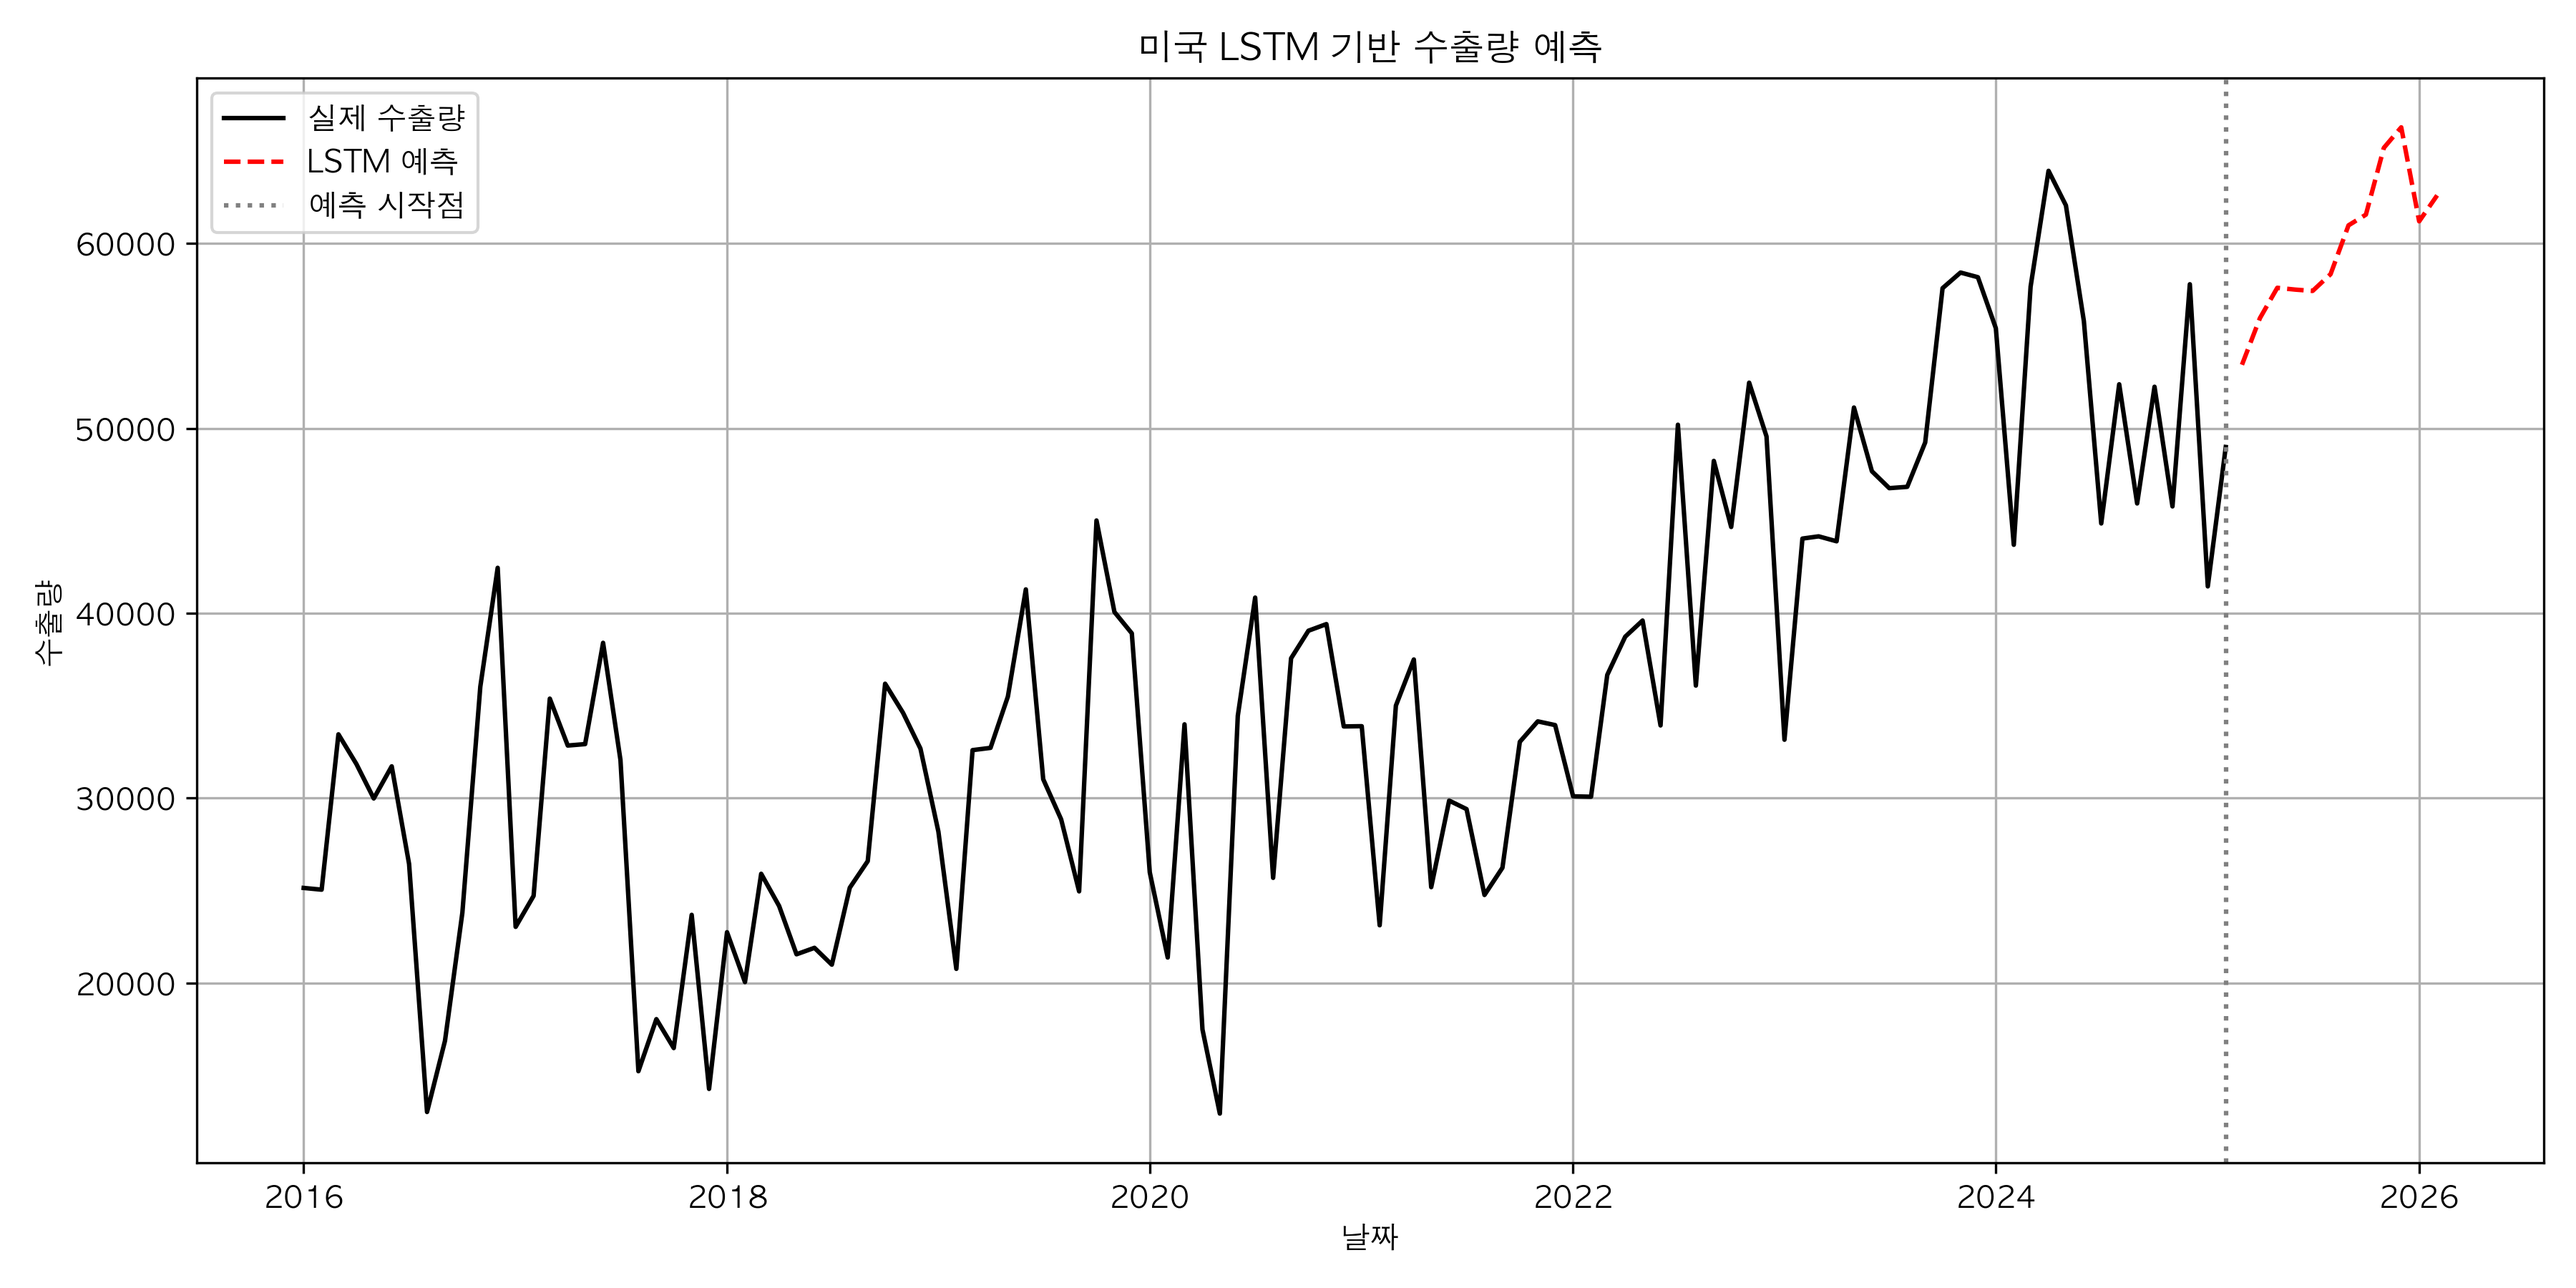
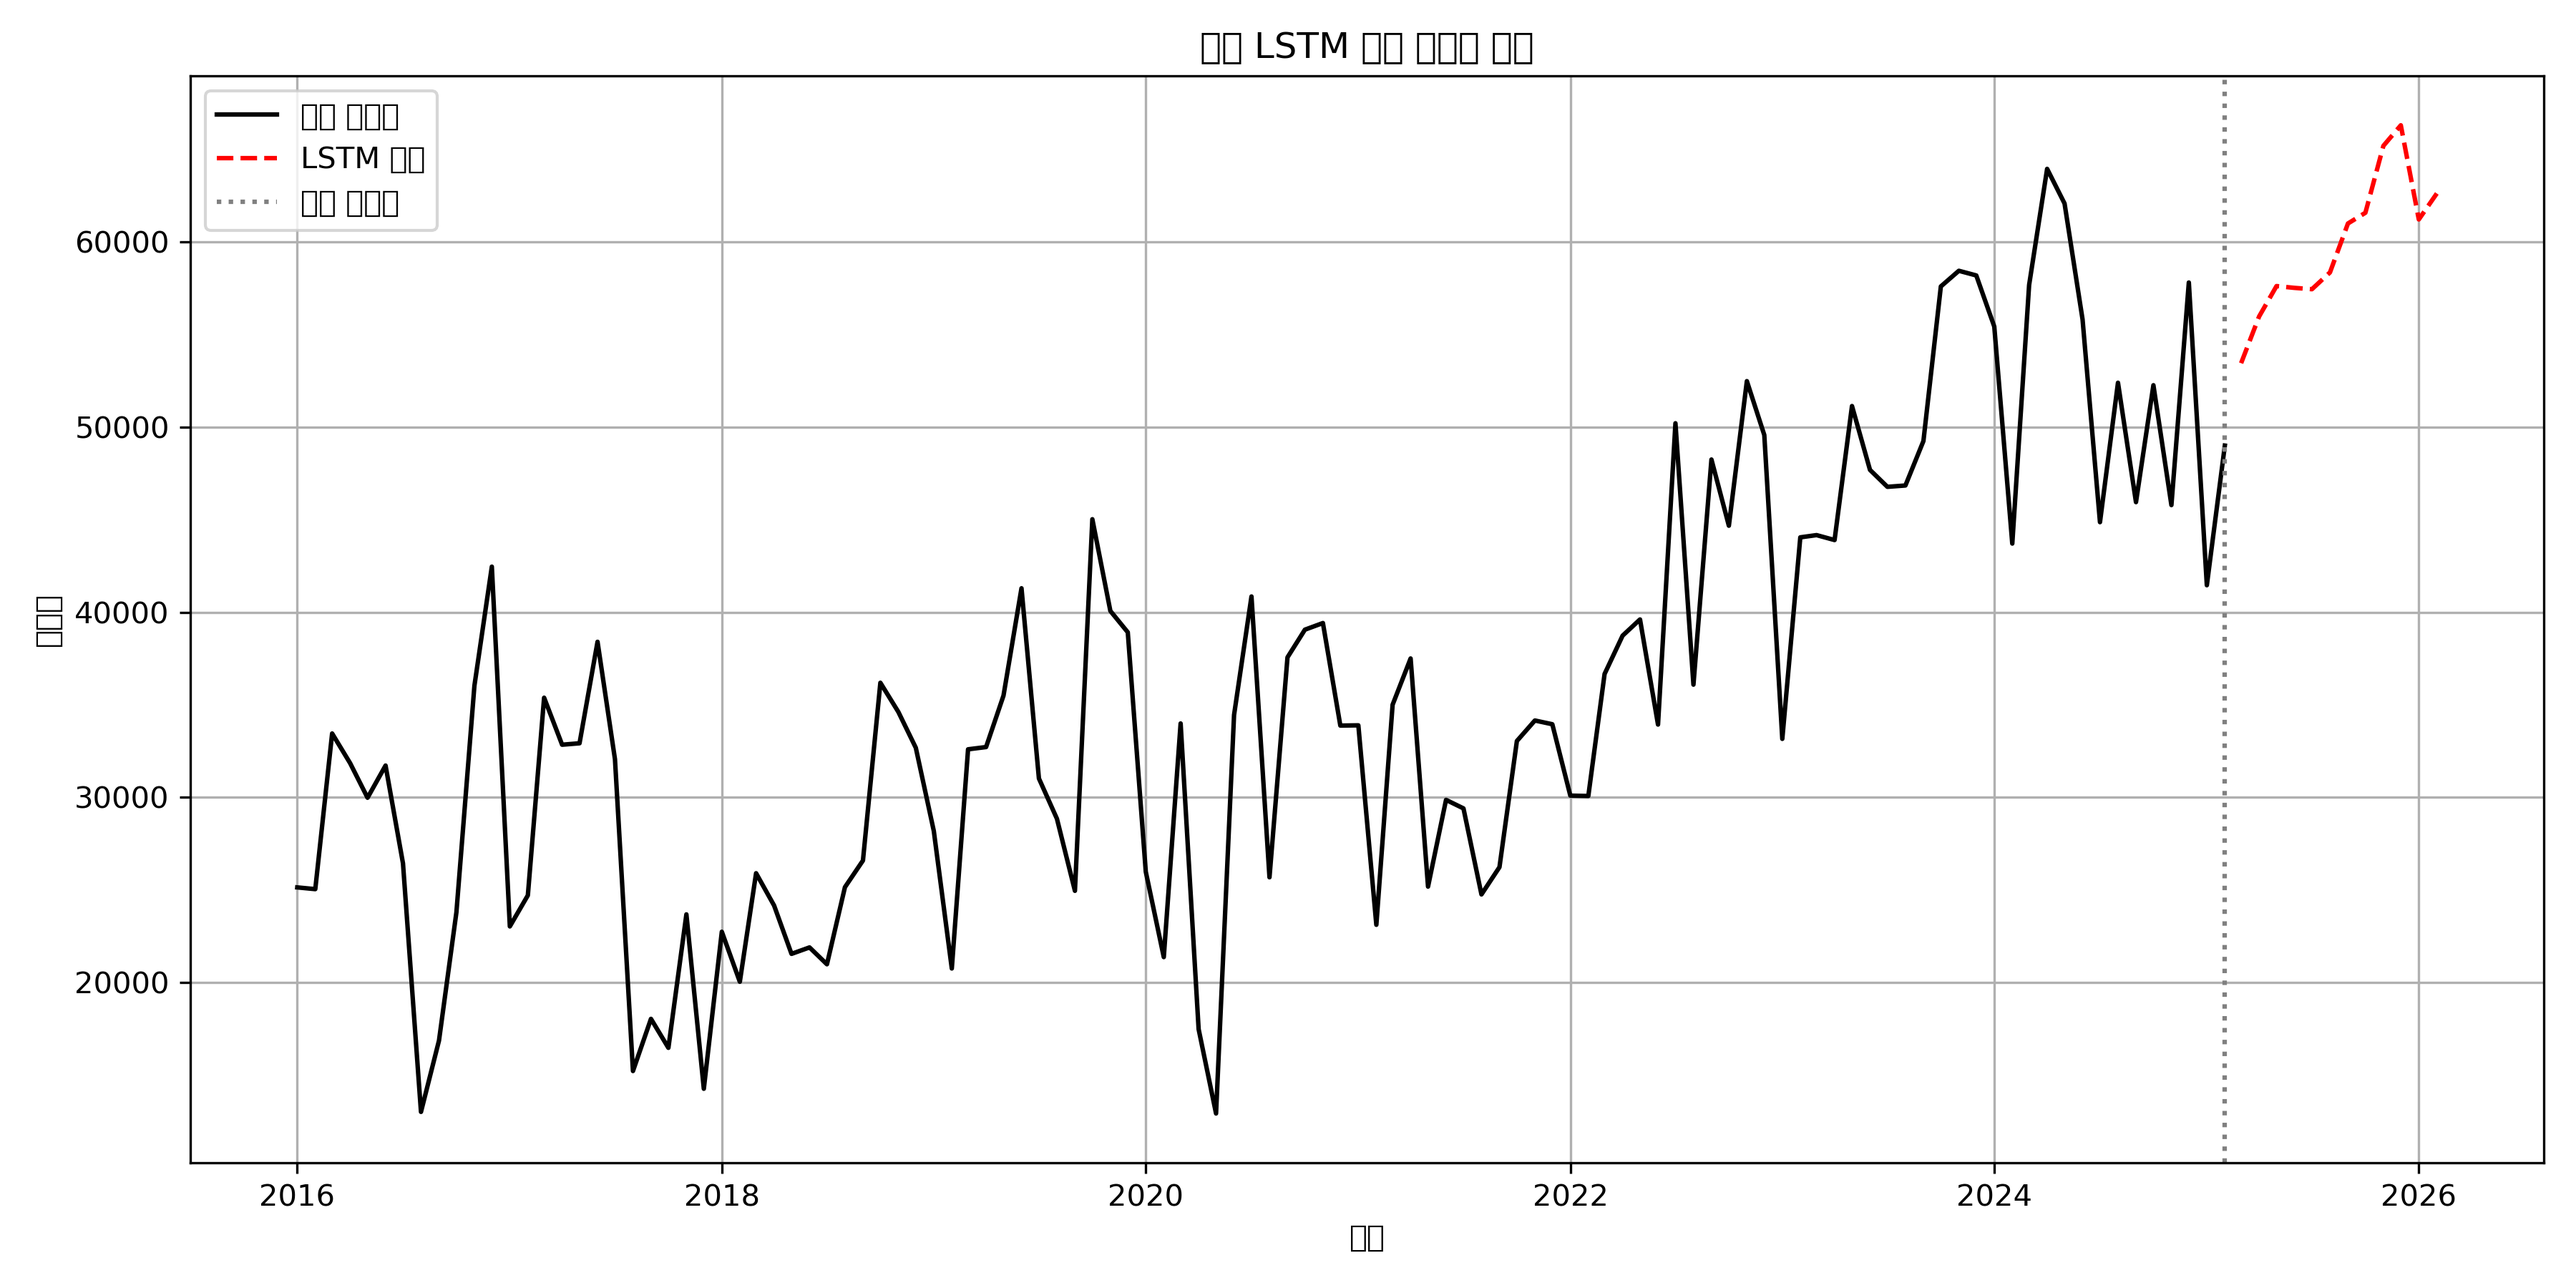
.

diff --git a/modules/prediction.py b/modules/prediction.py
@@ -18,6 +18,7 @@ import joblib
 import matplotlib.pyplot as plt
 import time
 
+
 # 한글 폰트 조정
 plt.rcParams["axes.unicode_minus"] = False
 
@@ -143,9 +144,52 @@ def prediction_ui():
 
         # 1-4. 시각화 함수
         def plot_lstm_forecast(series, forecast_df, region_name, forecast_months):
+            # 한글 폰트 설정
+            import matplotlib.font_manager as fm
+            import os
+            
+            # 폰트 등록 함수 (캐싱 적용)
+            @st.cache_resource
+            def setup_korean_font():
+                # 폰트 디렉토리 생성
+                font_dir = os.path.join(os.getcwd(), 'fonts')
+                os.makedirs(font_dir, exist_ok=True)
+                
+                # 나눔고딕 폰트 다운로드 (없는 경우)
+                font_path = os.path.join(font_dir, 'NanumGothic.ttf')
+                if not os.path.exists(font_path):
+                    import urllib.request
+                    font_url = "https://github.com/googlefonts/nanum-gothic/raw/main/fonts/NanumGothic-Regular.ttf"
+                    try:
+                        urllib.request.urlretrieve(font_url, font_path)
+                    except:
+                        # 다운로드 실패 시 기본 폰트 사용
+                        return None
+                
+                # 폰트 등록
+                font_prop = fm.FontProperties(fname=font_path)
+                return font_prop
+            
+            # 한글 폰트 설정 적용
+            font_prop = setup_korean_font()
+            if font_prop:
+                plt.rc('font', family=font_prop.get_name())
+            else:
+                # Mac OS의 경우 AppleGothic 사용
+                if os.name == 'posix':  # Mac OS
+                    plt.rc('font', family='AppleGothic')
+                # Windows의 경우 Malgun Gothic 사용
+                else:
+                    plt.rc('font', family='Malgun Gothic')
+            
+            # 마이너스 기호 깨짐 방지
+            plt.rcParams['axes.unicode_minus'] = False
+            
+            # 예측 데이터 준비
             forecast_index = pd.to_datetime(forecast_df['연도'].astype(str) + '-' + forecast_df['월'].astype(str))
             forecast_values = forecast_df['예측 수출량'].values
 
+            # 그래프 생성
             fig1, ax = plt.subplots(figsize=(12, 6))
             ax.plot(series.index, series['y'], label='실제 수출량', color='black')
             ax.plot(forecast_index, forecast_values, label='LSTM 예측', color='red', linestyle='--')
@@ -157,6 +201,7 @@ def prediction_ui():
             ax.grid(True)
             fig1.tight_layout()
 
+            # 스트림릿에 그래프 표시
             st.pyplot(fig1)
             plt.close(fig1)
 

diff --git a/modules/recommendations.py b/modules/recommendations.py
@@ -204,12 +204,34 @@ def recommendations_ui():
         st.warning("먼저 '예측 시스템' 탭에서 예측을 실행해주세요.")
         return
 
-    with st.expander("예측 결과 표 (LSTM 기반)"):
+    # 1) 예측 결과 (LSTM 기반)
+    with st.expander("예측 결과 표 (LSTM 기반)", expanded=False):
+        # (디버그용) 원본 출력
         st.write(st.session_state.predictions)
-        formatted_predictions = format_predictions_for_api(st.session_state.predictions)
-        st.markdown("### 형식 변환된 예측 데이터")
-        st.markdown(formatted_predictions)
 
+        # 2) 예: format_predictions_for_api()를 통해 HTML 또는 Markdown을 생성했다고 가정
+        # 여기서는 간단히 JSON을 예쁘게 출력하는 예시
+        # 필요하다면 format_predictions_for_api()로 표 형식 가공 가능
+        predictions_str = json.dumps(st.session_state.predictions, ensure_ascii=False, indent=2)
+
+        # 3) 최종 HTML 블록
+        st.markdown("### 형식 변환된 예측 데이터")
+        st.markdown(
+            f"""
+            <div style="background-color: #f8f9fa; 
+                        padding: 15px; 
+                        border-radius: 8px; 
+                        margin-bottom: 10px; 
+                        border-left: 4px solid #4285f4;">
+                <h4 style="margin-top: 0; color: #333;">예측 데이터</h4>
+                <pre style="color: #555; white-space: pre-wrap;">{predictions_str}</pre>
+            </div>
+            """,
+            unsafe_allow_html=True
+        )
+
+    # 이후 필요하다면 추가 UI, 예: 뉴스 표시, 추가 분석 폼 등
+    st.write("추가 UI나 분석 로직을 여기서 이어서 구현하세요.")
     # 뉴스가 없으면 가져오기
     if 'latest_news' not in st.session_state:
         with st.spinner("최신 뉴스를 가져오는 중..."):
